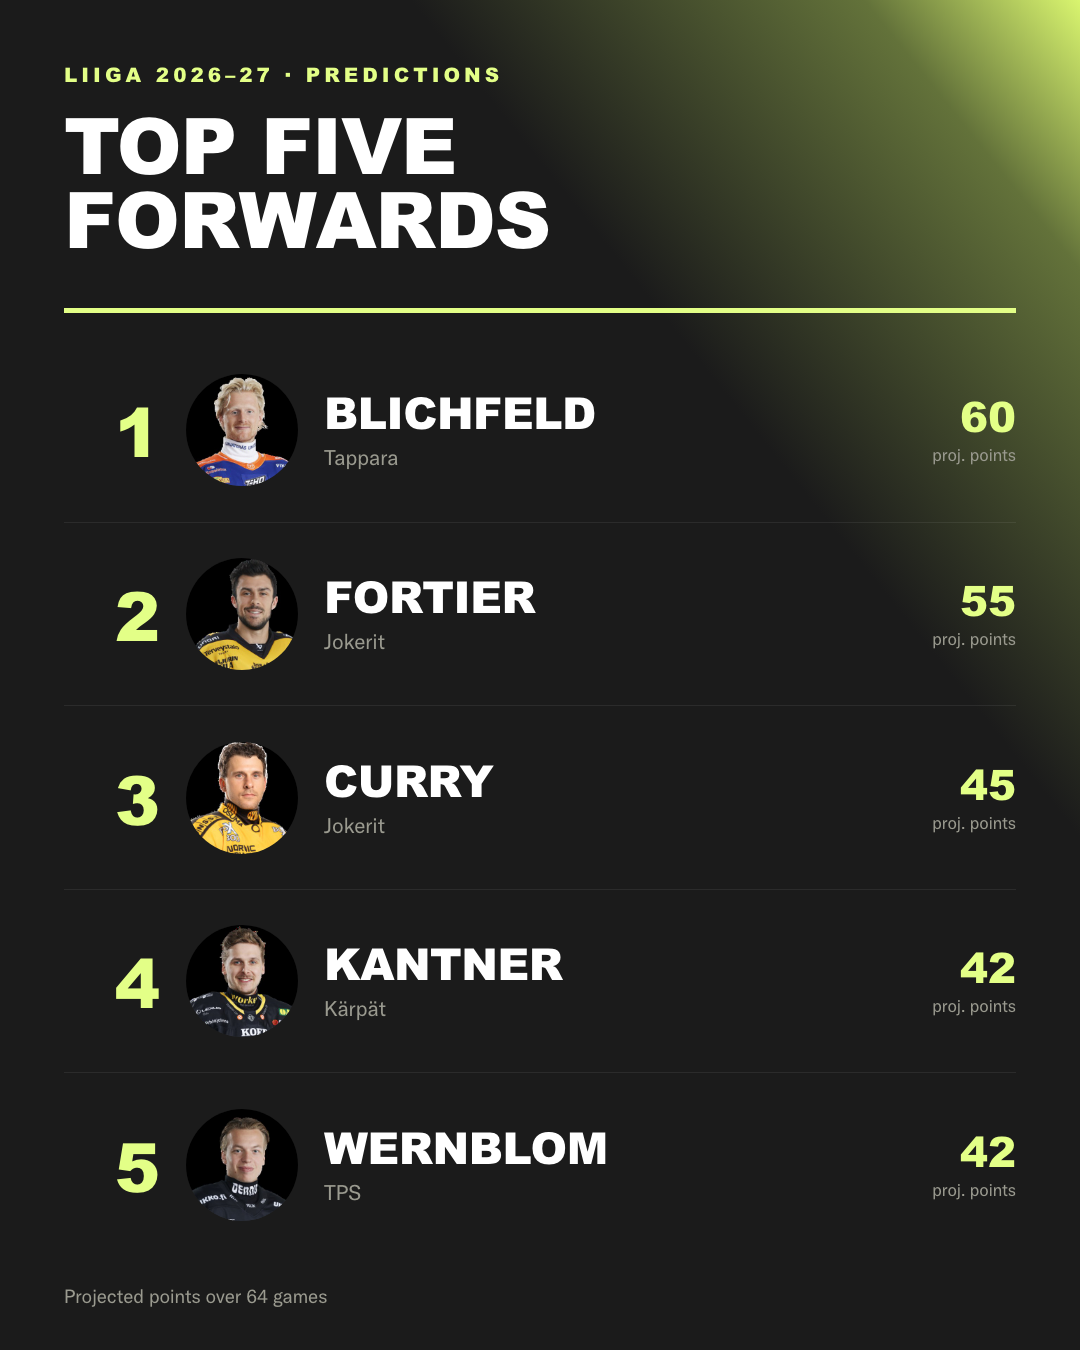
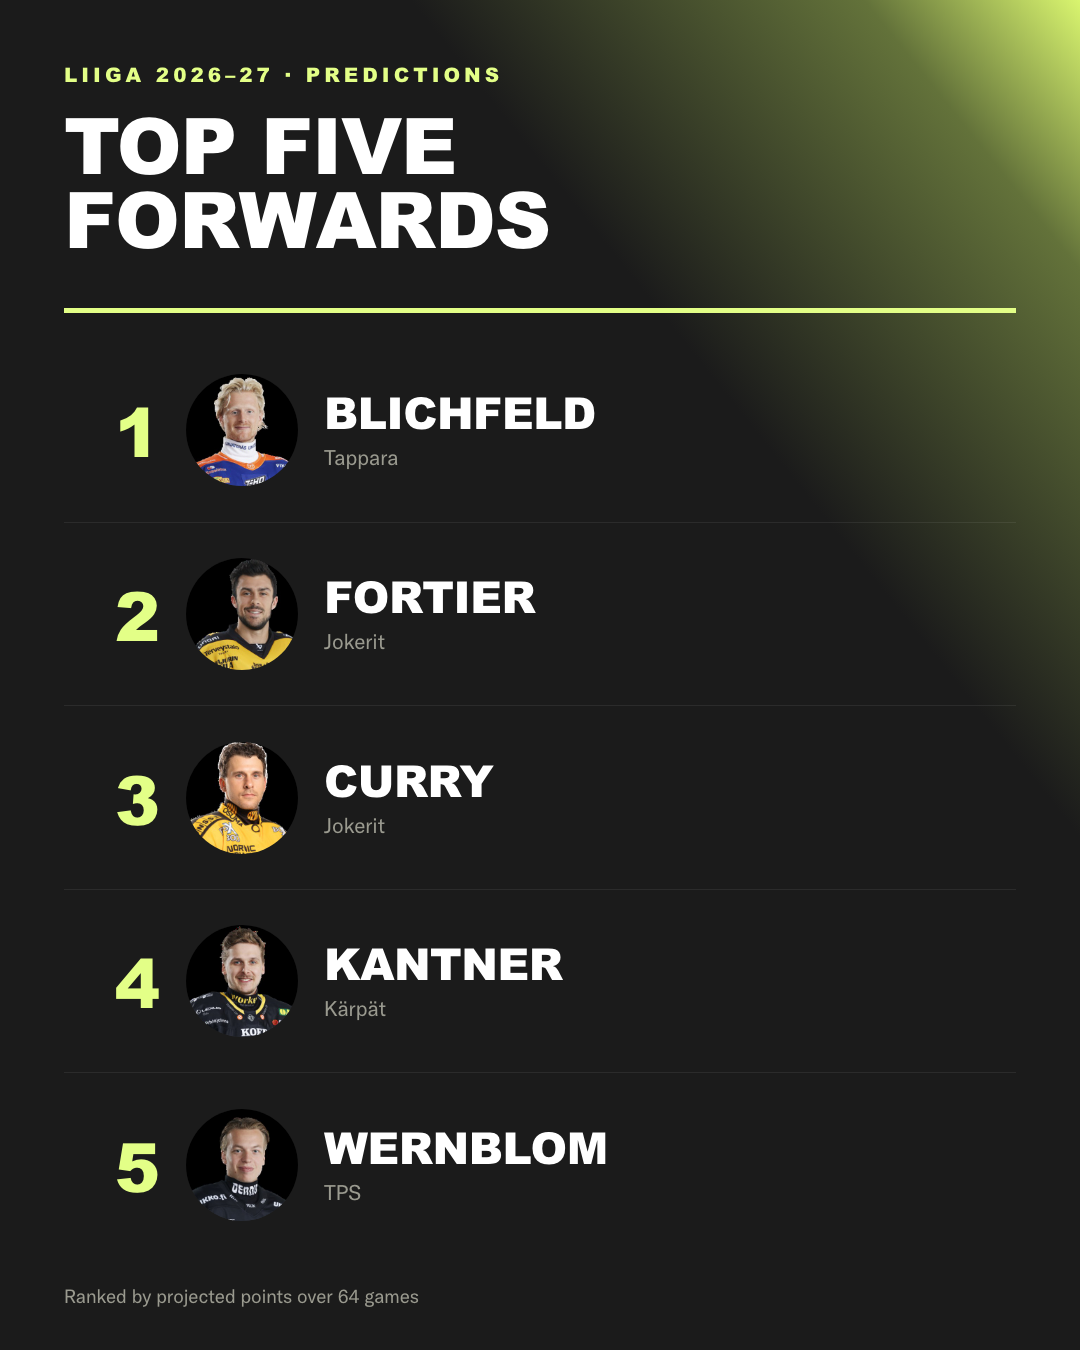
Top-five slides: drop the printed projections
Removes the right-hand figure from slides 6-8, matching the newcomers slide.
The projections still produce the ranking; they are just no longer printed.

Footers now carry the basis instead ("Ranked by projected points over 64
games" / "Ranked by projected save % · min. 60 career games on file"), so the
list is still attributable to a method rather than looking like an opinion.

Dropped the goalie save % too, not only the skaters' points. Strictly it is
not a "point", but one lone number across three otherwise number-free slides
read as an inconsistency. Trivial to restore.

diff --git a/site_instagram/slide_8.html b/site_instagram/slide_8.html
@@ -115,10 +115,6 @@
           <div class="nc-name">Juel</div>
           <div class="nc-from">HIFK</div>
         </div>
-        <div>
-          <div class="nc-num">91.1</div>
-          <div class="nc-unit">proj. save %</div>
-        </div>
       </div>
       <div class="row">
         <div class="rank">2</div>
@@ -126,10 +122,6 @@
         <div class="nc-txt">
           <div class="nc-name">Bartosak</div>
           <div class="nc-from">Pelicans</div>
-        </div>
-        <div>
-          <div class="nc-num">91.1</div>
-          <div class="nc-unit">proj. save %</div>
         </div>
       </div>
       <div class="row">
@@ -139,10 +131,6 @@
           <div class="nc-name">Rimpinen</div>
           <div class="nc-from">K-Espoo</div>
         </div>
-        <div>
-          <div class="nc-num">90.9</div>
-          <div class="nc-unit">proj. save %</div>
-        </div>
       </div>
       <div class="row">
         <div class="rank">4</div>
@@ -150,10 +138,6 @@
         <div class="nc-txt">
           <div class="nc-name">Rubin</div>
           <div class="nc-from">Kärpät</div>
-        </div>
-        <div>
-          <div class="nc-num">90.9</div>
-          <div class="nc-unit">proj. save %</div>
         </div>
       </div>
       <div class="row">
@@ -163,10 +147,6 @@
           <div class="nc-name">Heljanko</div>
           <div class="nc-from">Tappara</div>
         </div>
-        <div>
-          <div class="nc-num">90.7</div>
-          <div class="nc-unit">proj. save %</div>
-        </div>
       </div></div>
-    <div class="foot">Projected save % · min. 60 career games on file</div>
+    <div class="foot">Ranked by projected save % · min. 60 career games on file</div>
   </div></body></html>

diff --git a/site_instagram/slide_6.html b/site_instagram/slide_6.html
@@ -115,10 +115,6 @@
           <div class="nc-name">Blichfeld</div>
           <div class="nc-from">Tappara</div>
         </div>
-        <div>
-          <div class="nc-num">60</div>
-          <div class="nc-unit">proj. points</div>
-        </div>
       </div>
       <div class="row">
         <div class="rank">2</div>
@@ -126,10 +122,6 @@
         <div class="nc-txt">
           <div class="nc-name">Fortier</div>
           <div class="nc-from">Jokerit</div>
-        </div>
-        <div>
-          <div class="nc-num">55</div>
-          <div class="nc-unit">proj. points</div>
         </div>
       </div>
       <div class="row">
@@ -139,10 +131,6 @@
           <div class="nc-name">Curry</div>
           <div class="nc-from">Jokerit</div>
         </div>
-        <div>
-          <div class="nc-num">45</div>
-          <div class="nc-unit">proj. points</div>
-        </div>
       </div>
       <div class="row">
         <div class="rank">4</div>
@@ -150,10 +138,6 @@
         <div class="nc-txt">
           <div class="nc-name">Kantner</div>
           <div class="nc-from">Kärpät</div>
-        </div>
-        <div>
-          <div class="nc-num">42</div>
-          <div class="nc-unit">proj. points</div>
         </div>
       </div>
       <div class="row">
@@ -163,10 +147,6 @@
           <div class="nc-name">Wernblom</div>
           <div class="nc-from">TPS</div>
         </div>
-        <div>
-          <div class="nc-num">42</div>
-          <div class="nc-unit">proj. points</div>
-        </div>
       </div></div>
-    <div class="foot">Projected points over 64 games</div>
+    <div class="foot">Ranked by projected points over 64 games</div>
   </div></body></html>

diff --git a/site_instagram/slide_7.html b/site_instagram/slide_7.html
@@ -115,10 +115,6 @@
           <div class="nc-name">Stenqvist</div>
           <div class="nc-from">Lukko</div>
         </div>
-        <div>
-          <div class="nc-num">37</div>
-          <div class="nc-unit">proj. points</div>
-        </div>
       </div>
       <div class="row">
         <div class="rank">2</div>
@@ -126,10 +122,6 @@
         <div class="nc-txt">
           <div class="nc-name">Åkerström</div>
           <div class="nc-from">Sport</div>
-        </div>
-        <div>
-          <div class="nc-num">29</div>
-          <div class="nc-unit">proj. points</div>
         </div>
       </div>
       <div class="row">
@@ -139,10 +131,6 @@
           <div class="nc-name">Vatanen</div>
           <div class="nc-from">JYP</div>
         </div>
-        <div>
-          <div class="nc-num">28</div>
-          <div class="nc-unit">proj. points</div>
-        </div>
       </div>
       <div class="row">
         <div class="rank">4</div>
@@ -150,10 +138,6 @@
         <div class="nc-txt">
           <div class="nc-name">Tichacek</div>
           <div class="nc-from">Kärpät</div>
-        </div>
-        <div>
-          <div class="nc-num">27</div>
-          <div class="nc-unit">proj. points</div>
         </div>
       </div>
       <div class="row">
@@ -163,10 +147,6 @@
           <div class="nc-name">Caito</div>
           <div class="nc-from">Jokerit</div>
         </div>
-        <div>
-          <div class="nc-num">27</div>
-          <div class="nc-unit">proj. points</div>
-        </div>
       </div></div>
-    <div class="foot">Projected points over 64 games</div>
+    <div class="foot">Ranked by projected points over 64 games</div>
   </div></body></html>

diff --git a/scripts/build_instagram.py b/scripts/build_instagram.py
@@ -483,11 +483,7 @@ def top5_slide(t: dict, title: str, rows_in: list, foot: str) -> str:
           <div class="nc-name">{name}</div>
           <div class="nc-from">{team}</div>
         </div>
-        <div>
-          <div class="nc-num">{num}</div>
-          <div class="nc-unit">{unit}</div>
-        </div>
-      </div>""" for i, (full, name, team, num, unit) in enumerate(rows_in, 1))
+      </div>""" for i, (full, name, team, _num, _unit) in enumerate(rows_in, 1))
     return page(t, f"""
   <div class="slide">
     <div class="head">
@@ -669,11 +665,11 @@ def build() -> None:
     picks = _award_picks()
     slides.append(award_slide(themes[4], picks))
     f5, d5, g5 = _top5_lists()
-    pf = f"Projected points over {GAMES_PER_TEAM} games"
+    pf = f"Ranked by projected points over {GAMES_PER_TEAM} games"
     slides.append(top5_slide(themes[5], "Top five<br>forwards", f5, pf))
     slides.append(top5_slide(themes[6], "Top five<br>defencemen", d5, pf))
     slides.append(top5_slide(themes[7], "Top five<br>goalies", g5,
-                             "Projected save % · min. 60 career games on file"))
+                             "Ranked by projected save % · min. 60 career games on file"))
     slides.append(newcomers_slide(themes[8], _newcomer_picks()))
 
     for i, html in enumerate(slides, 1):
